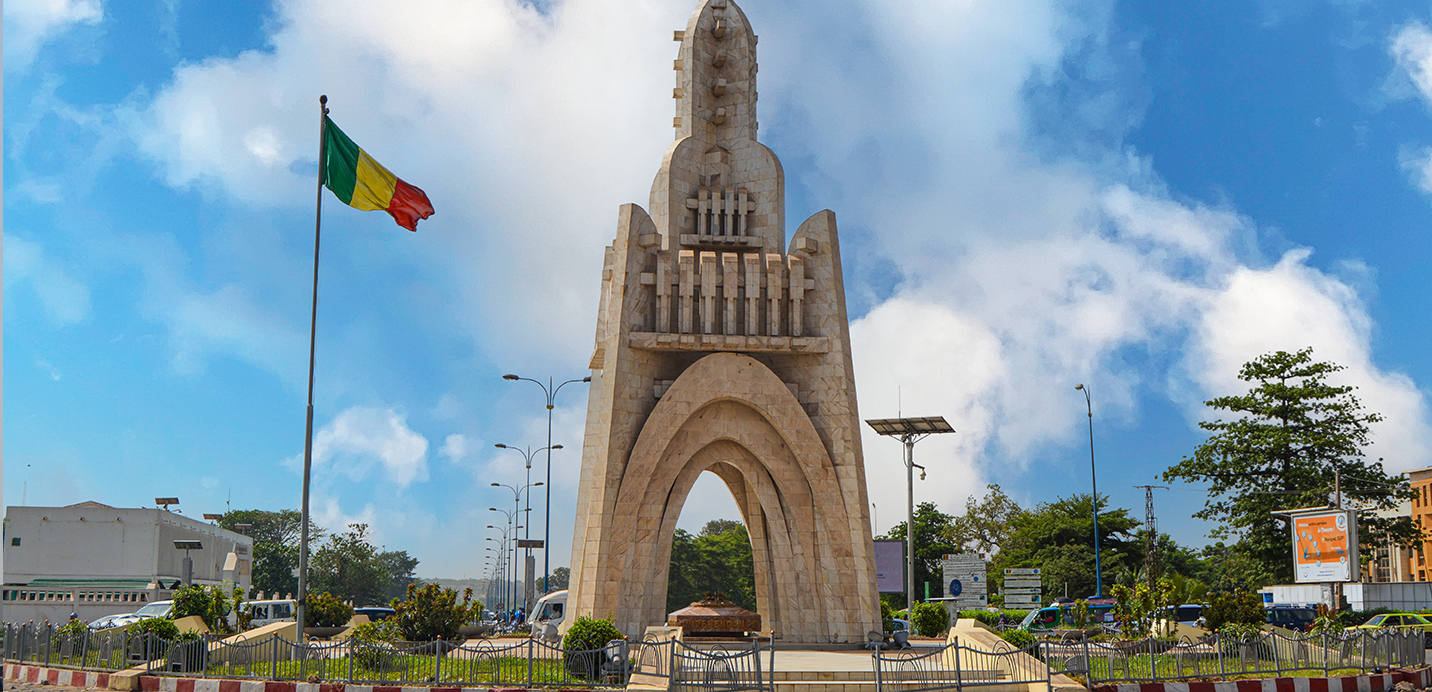
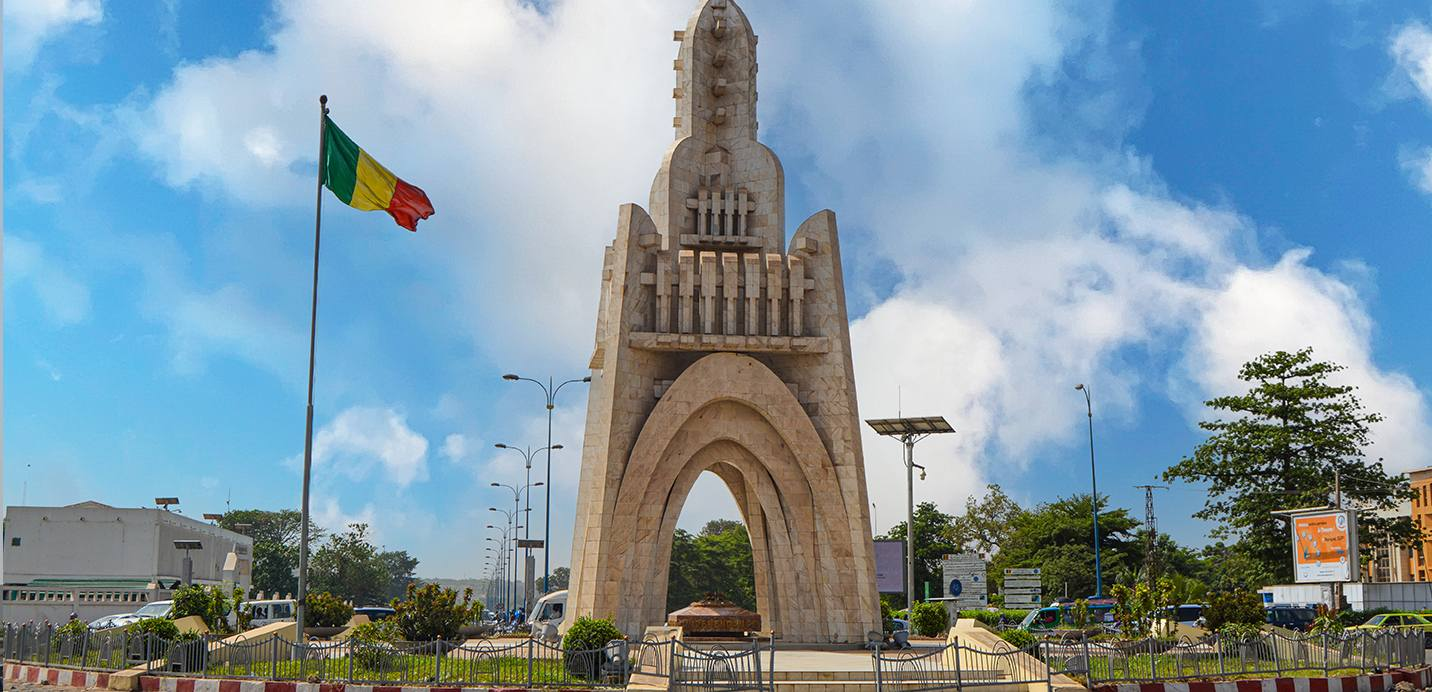
perf(frontend): wire up the homepage photographs and cut their weight
The four photographs were added directly under src/assets, which is where
they were always meant to go — the loader was the thing in the wrong
place, globbing a photos/ subfolder that only it knew about. Moved the
loader up a level and dropped the subfolder, so files land where they are
expected and are picked up without ceremony.

Then the weights, which mattered more:

- djenne was a 3504x1767 WebP at 6.6 MB, on its own 91% of the build.
  Downscaled to 1920 wide and re-encoded as JPEG: 233 KB.
- independance 930 KB -> 139 KB, bamako 270 KB -> 137 KB, both re-encoded
  at web quality with no visible change at the sizes they render

Total build: 7.4 MB -> 1.2 MB. That is the difference between a demo
someone opens on a phone in Bamako and one they give up on.

The hero is decorative and sits behind an opacity layer, so it is now
decoded off the main thread at low fetch priority and must never hold up
the headline. Below-the-fold images decode async as well.

Recorded in the loader what future images need to respect: under ~400 KB,
no wider than ~1920px, and public-domain or CC sourced, since the repo is
public.

diff --git a/frontend/src/assets/photos.js b/frontend/src/assets/photos.js
@@ -1,0 +1,42 @@
+/**
+ * Photographs, resolved by base name from this folder.
+ *
+ * A glob rather than fixed imports, so a missing file is `undefined` instead of a
+ * build error, and `djenne.jpg` or `djenne.webp` resolve the same way. Components
+ * fall back to a gradient when a photo is absent, which means the app builds and
+ * runs before anyone has downloaded anything.
+ *
+ * Expected base names (the rest of the folder — logos, the specimen PDF — is
+ * matched too but simply never looked up):
+ *
+ *   djenne          Grande Mosquée de Djenné      — hero
+ *   bamako          Bamako skyline / Tour BCEAO   — benefits band
+ *   citoyen-mobile  citizen using a smartphone    — diaspora block
+ *   independance    Monument de l'Indépendance    — motto band
+ *
+ * Use public-domain or CC sources (Wikimedia Commons, Unsplash, Pexels). This repo
+ * is public; images lifted from a search results page are somebody's copyright.
+ *
+ * Keep files under ~400 KB and no wider than ~1920px. These are decorative
+ * backgrounds behind an opacity layer, and the hosted demo is the whole point of
+ * the build — a multi-megabyte hero costs every visitor on a slow connection.
+ */
+const files = import.meta.glob('./*.{jpg,jpeg,png,webp,avif}', {
+  eager: true,
+  query: '?url',
+  import: 'default',
+});
+
+const byName = Object.fromEntries(
+  Object.entries(files).map(([path, url]) => [
+    path.replace(/^\.\//, '').replace(/\.[^.]+$/, ''),
+    url,
+  ]),
+);
+
+/** URL for a photo, or `undefined` when it has not been added yet. */
+export function photo(name) {
+  return byName[name];
+}
+
+export const PHOTO_NAMES = ['djenne', 'bamako', 'citoyen-mobile', 'independance'];

diff --git a/frontend/src/pages/HomePage.jsx b/frontend/src/pages/HomePage.jsx
@@ -12,7 +12,7 @@ import {
 } from 'lucide-react';
 import { MODULE_META } from '../lib/format';
 import MaliFlag, { MaliStripe } from '../components/MaliFlag';
-import { photo } from '../assets/photos';
+import { photo } from '../assets/photos.js';
 
 const moduleKeys = ['identity', 'lifeEvents', 'mobility', 'land'];
 
@@ -53,6 +53,10 @@ export default function HomePage() {
             src={hero}
             alt=""
             aria-hidden="true"
+            // Decorative and behind an opacity layer, so it must never hold up the
+            // headline: decoded off the main thread, at low fetch priority.
+            decoding="async"
+            fetchPriority="low"
             className="absolute inset-0 -z-10 size-full object-cover opacity-25"
           />
         )}
@@ -223,6 +227,7 @@ export default function HomePage() {
             aria-hidden="true"
             className="absolute inset-0 -z-10 size-full object-cover opacity-30"
             loading="lazy"
+            decoding="async"
           />
         )}
         <div className="absolute inset-0 -z-10 bg-slate-900/70" />